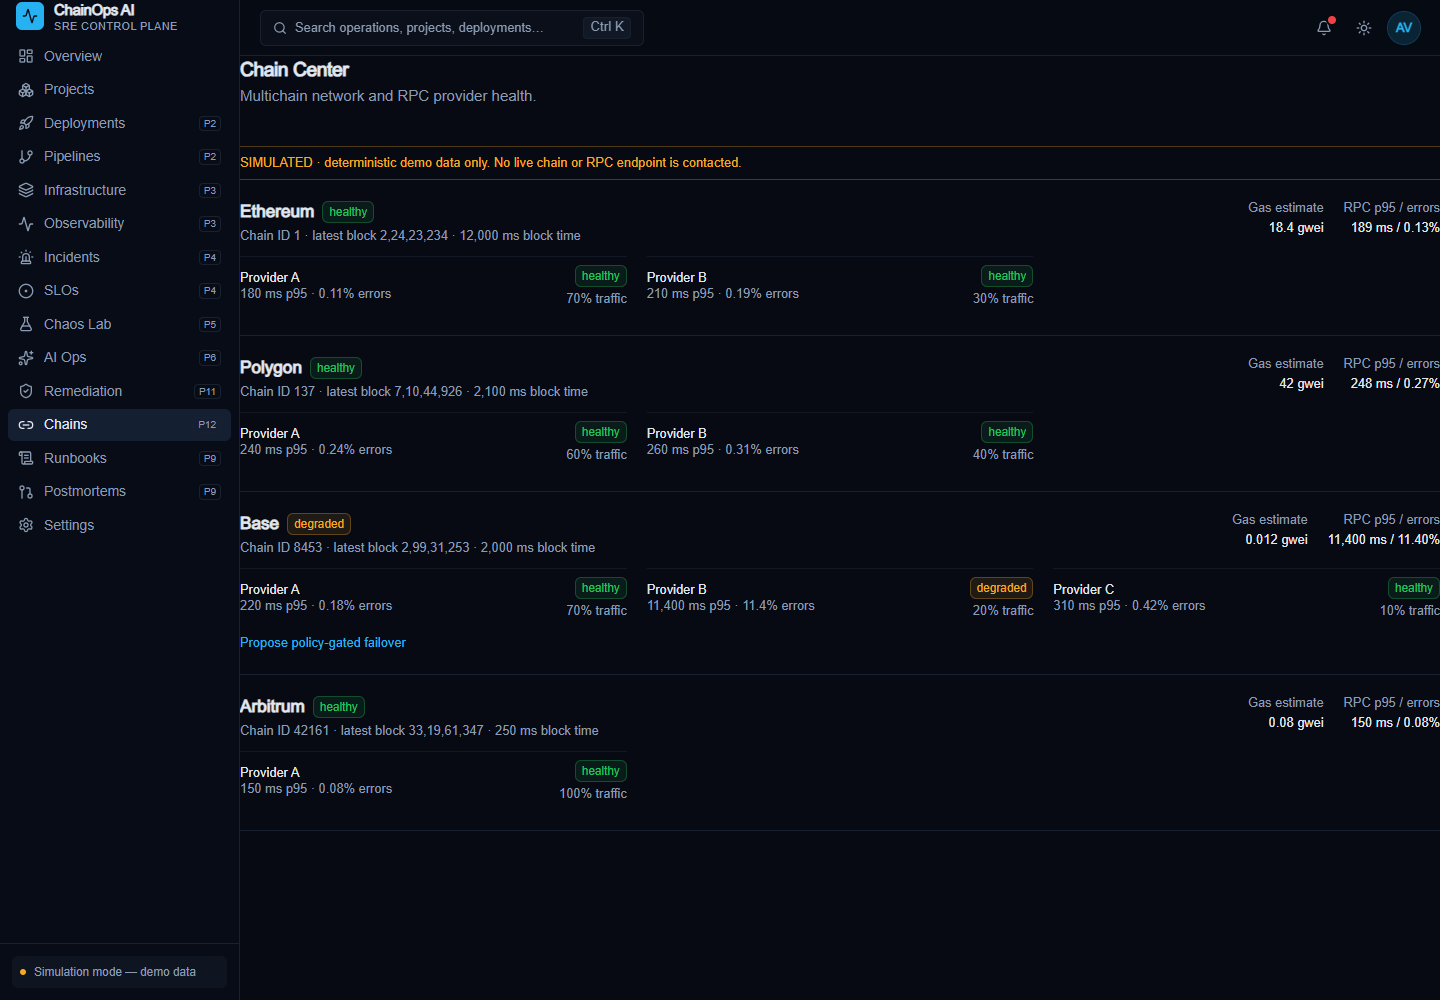
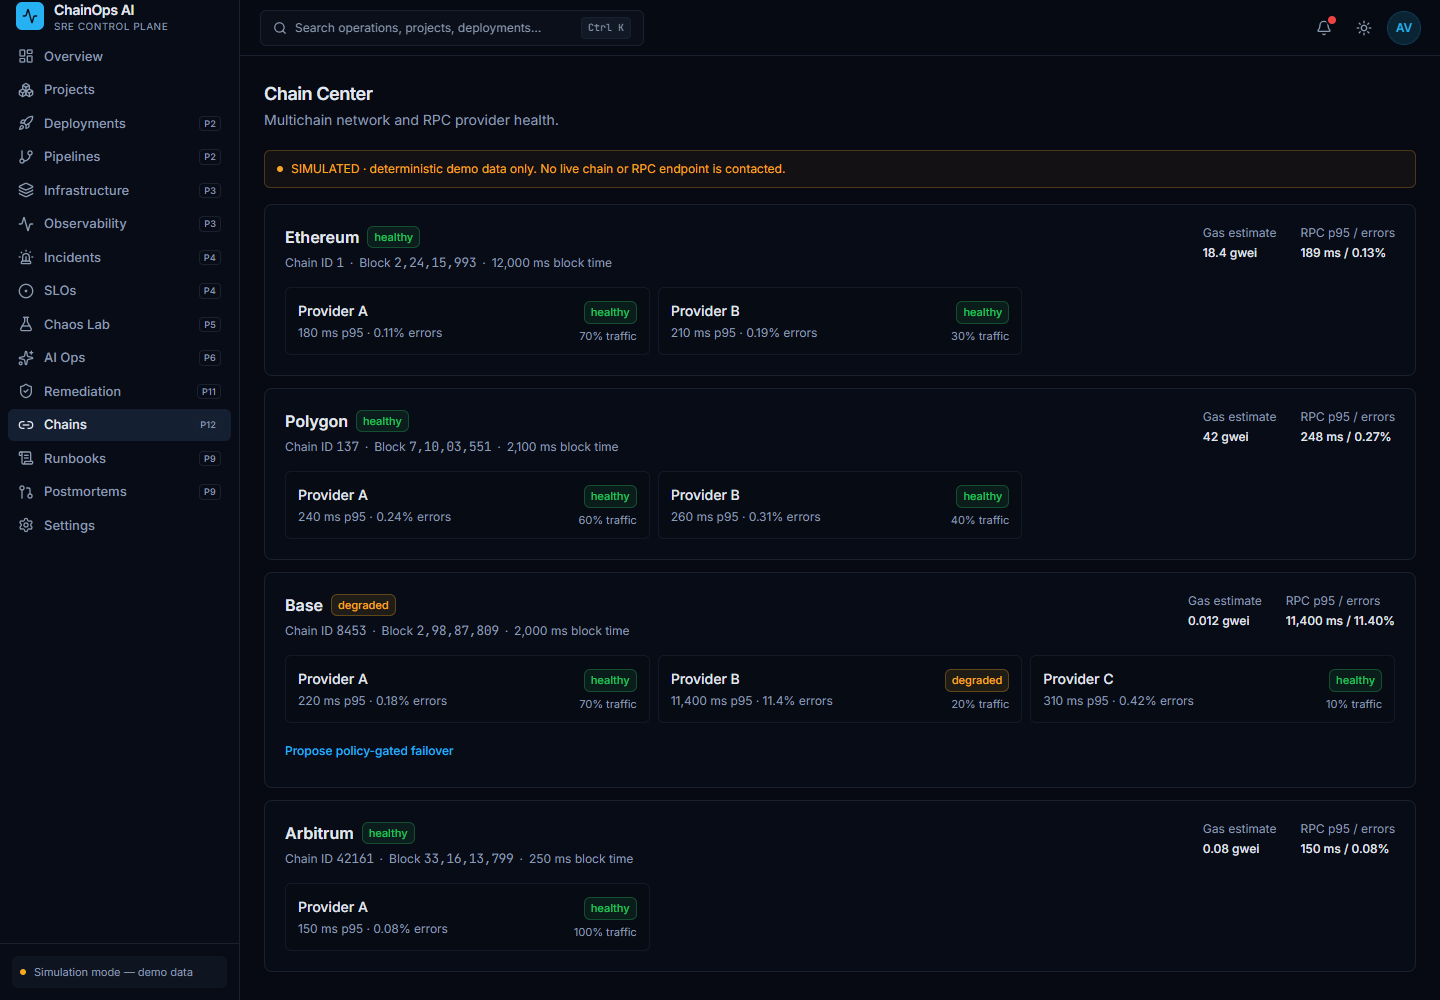
commit

diff --git a/README.md b/README.md
@@ -7,15 +7,17 @@
 An operator-focused SRE control plane demo connecting service health, chain RPCs, SLOs,
 incidents, evidence-based analysis, and approval-gated recovery.
 
-[Watch the walkthrough](assets/readme/chainops-walkthrough.webm) · [Open the animated recovery loop](assets/readme/operational-loop.svg)
+[Open the walkthrough video](assets/readme/chainops-walkthrough.webm) · [View the recovery workflow](assets/readme/operational-loop.svg)
 
 </div>
 
-> **Demo environment only.** Services, chains, providers, telemetry, deployments, and recovery
-> actions are simulated and stored in memory. This project does not contact RPC endpoints,
-> Kubernetes, GitHub, telemetry collectors, or external AI models. It is not production-ready.
+> **Demo mode:** service health, chains, telemetry, deployments, and recovery actions use seeded
+> simulations. No live infrastructure, RPC endpoint, repository, telemetry collector, or external
+> AI provider is contacted.
 
-![ChainOps dashboard showing seeded service health, SLOs, chains, incidents, deployments, and activity](assets/readme/dashboard.png)
+[![Animated ChainOps walkthrough showing the dashboard, chain health, and incident response](assets/readme/chainops-preview.gif)](assets/readme/chainops-walkthrough.webm)
+
+<sub>Click the preview for the full WebM walkthrough.</sub>
 
 ## The operating loop
 
@@ -31,15 +33,14 @@ before the simulator redistributes traffic and verifies recovery.
 | --- | --- |
 | ![Chain Center with simulated Ethereum, Polygon, Base, and Arbitrum provider health](assets/readme/chains.png) | ![Incident detail with correlated alerts, telemetry, timeline, and evidence](assets/readme/incident-recovery.png) |
 
-The [short WebM walkthrough](assets/readme/chainops-walkthrough.webm) cycles through the real
-local dashboard, chain health, and incident screens. These captures show seeded demo state; they
-are not live infrastructure or a recording of a real outage.
+The animated preview cycles through screenshots of the dashboard, Chain Center, and
+incident screens. Click it or use the [full WebM walkthrough](assets/readme/chainops-walkthrough.webm)
+to open the complete clip. All screens show seeded demo state.
 
 ## What is here
 
-**Status: local-first demonstration, not a production control plane.** Several workflows are
-implemented end to end against deterministic in-memory simulations. No real infrastructure is
-controlled. Review the limitations below before deploying or connecting real systems.
+**Project status:** a local-first demonstration of the ChainOps incident recovery workflow. The
+flows below run end to end against deterministic simulations; they do not operate real systems.
 
 - **Operational overview:** service health, SLO compliance, chain status, deployments, incidents,
   and recent activity.
@@ -64,9 +65,6 @@ controlled. Review the limitations below before deploying or connecting real sys
    peers and clears the injected provider failure.
 4. Check **Observability**, **SLOs**, and **Incidents** for the resulting recovery state.
 
-The UI uses seeded demo principals because authentication is not implemented. Role checks are
-demo workflow controls, not a security boundary.
-
 ## Run locally
 
 **Requirements:** Node.js 22 and npm.
@@ -89,9 +87,10 @@ npm run lint
 npm run build
 ```
 
-The test suite covers domain state machines, validation, service behavior, simulated providers,
-telemetry/SLO/incident integration, remediation policy, and the multichain recovery workflow.
-There are no browser-driven end-to-end tests yet.
+The 107 deterministic tests cover domain state machines, validation, service behavior, simulated
+providers, telemetry/SLO/incident integration, remediation policy, and the multichain recovery
+workflow. CI also type-checks, lints, and builds the app. Browser-driven end-to-end tests are not
+currently included.
 
 ## Architecture
 
@@ -116,13 +115,12 @@ simulated adapters; replacing them with real integrations would still require pr
 identity, persistence, secrets/configuration, policy enforcement, observability, and deployment
 hardening.
 
-## Honest limitations
+## Demo boundaries
 
-- No authentication or production authorization.
-- No durable database; server restart resets state.
-- No live blockchain/RPC, Kubernetes, GitHub, CI, telemetry, or AI-provider connections.
-- Gas prices, chain/provider health, and generated analysis are deterministic demo values.
-- No production deployment configuration or browser E2E coverage.
+- State is held in memory and returns to its seeded baseline when the server restarts.
+- User identities and role checks are demo workflow controls, not authentication or authorization.
+- Chain/RPC health, telemetry, deployment/CI behavior, analysis, AI results, and remediation are
+  simulated; no live infrastructure or external AI service is contacted.
 
 See [Architecture](docs/ARCHITECTURE.md), [Development](docs/DEVELOPMENT.md), and
 [Roadmap](docs/ROADMAP.md) for implementation status and engineering details.
@@ -130,5 +128,5 @@ See [Architecture](docs/ARCHITECTURE.md), [Development](docs/DEVELOPMENT.md), an
 ## Contributing and license
 
 Run the checks in [Development](docs/DEVELOPMENT.md) before opening a change. GitHub Actions runs
-tests, type checking, lint, and a production build on pushes and pull requests. No license is
-included yet; the repository owner must choose one before granting reuse rights.
+tests, type checking, lint, and a production build on pushes and pull requests. No license file is
+included; choose one before publishing if you want to grant reuse rights.
